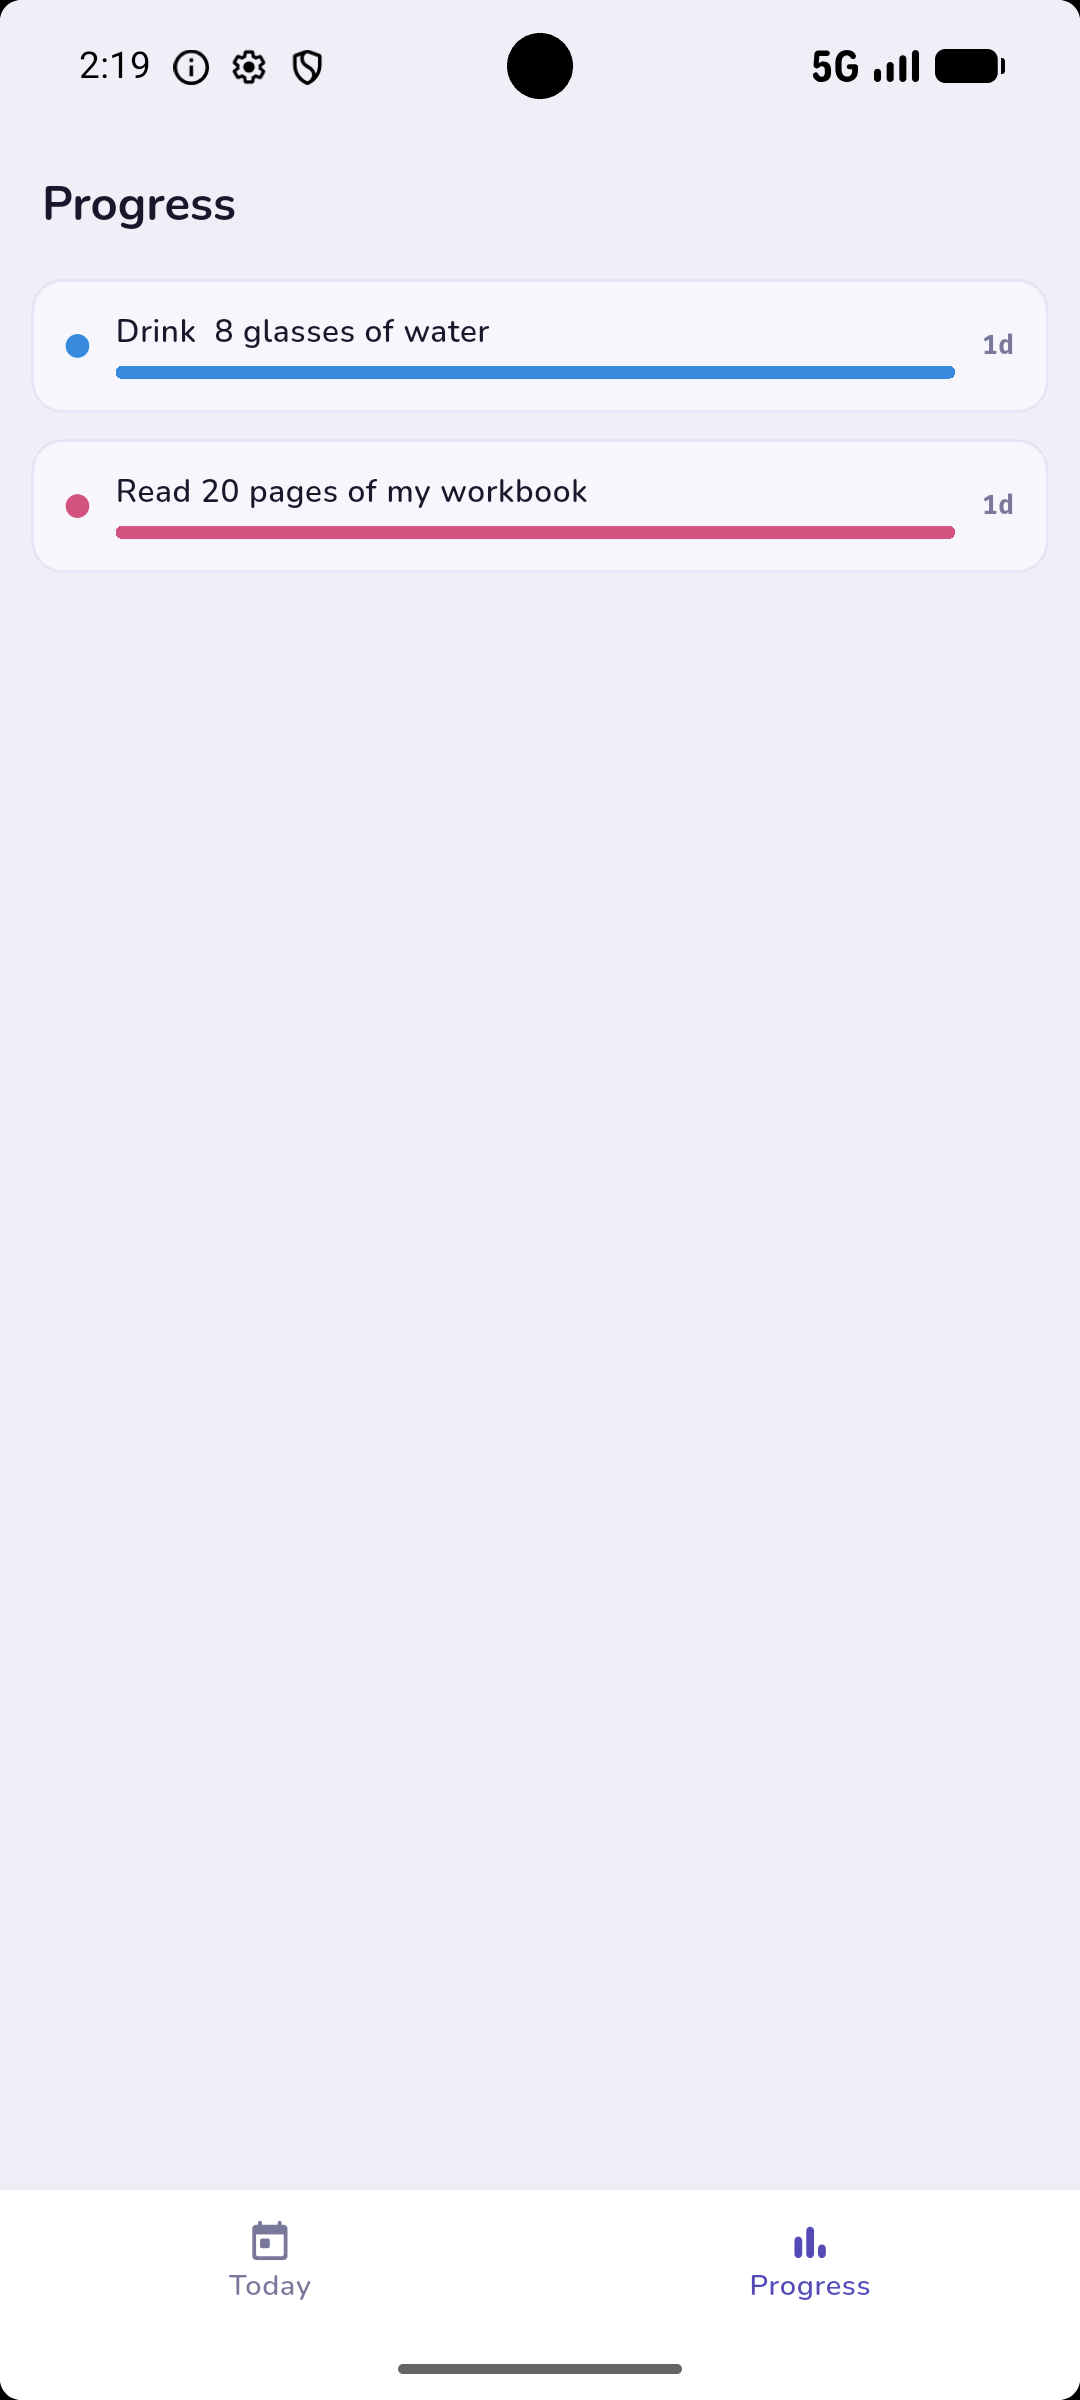
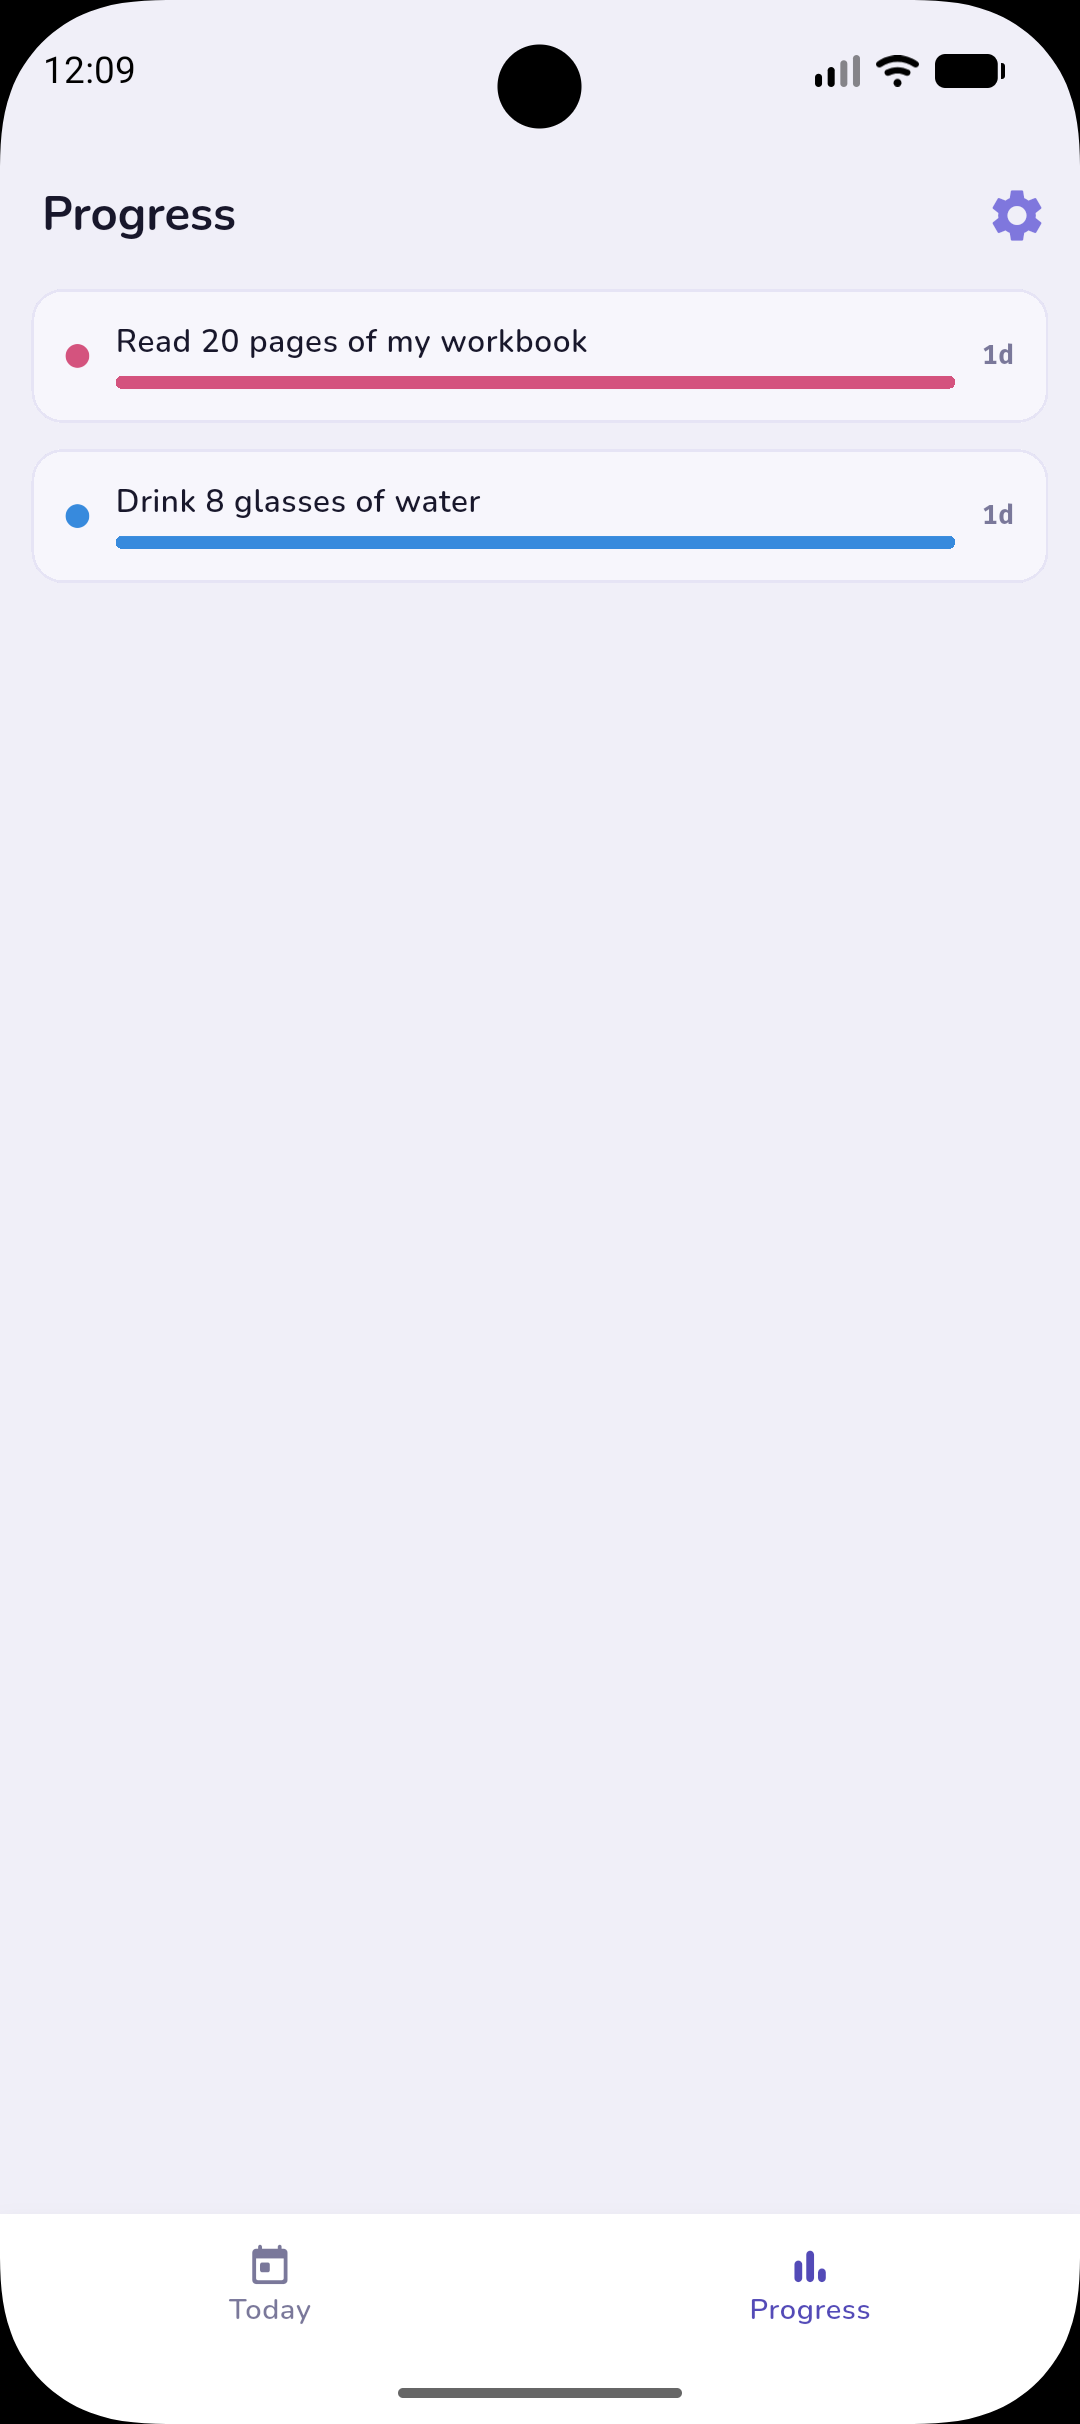
docs: add dark mode and settings screenshots, update README

diff --git a/README.md b/README.md
@@ -4,15 +4,24 @@ A lightweight, offline-first habit tracking app built with Flutter — running o
 
 ## Screenshots
 
-| | Splash | Today (Empty) | Today (Active) | Add Habit |
+**Light**
+
+| | Splash | Home (Empty) | Home (Active) | Add Habit |
 |---|:---:|:---:|:---:|:---:|
 | **iOS** | <img src="docs/ios_splash.png" width="160"/> | <img src="docs/ios_home_empty.png" width="160"/> | <img src="docs/ios_home_habits.png" width="160"/> | <img src="docs/ios_add_habit.png" width="160"/> |
-| **Android** | <img src="docs/android_splash.png" width="160"/> | <img src="docs/android_home.png" width="160"/> | <img src="docs/android_home_habits.png" width="160"/> | <img src="docs/android_add_habit.png" width="160"/> |
+| **Android** | <img src="docs/android_splash.png" width="160"/> | <img src="docs/android_home_empty.png" width="160"/> | <img src="docs/android_home_habits.png" width="160"/> | <img src="docs/android_add_habit.png" width="160"/> |
 
-| | Edit Habit | Progress | 
-|---|:---:|:---:|
-| **iOS** | <img src="docs/ios_edit_habit.png" width="160"/> | <img src="docs/ios_progress.png" width="160"/> | 
-| **Android** | <img src="docs/android_edit_habit.png" width="160"/> | <img src="docs/android_progress.png" width="160"/> | 
+| | Edit Habit | Progress | Settings |
+|---|:---:|:---:|:---:|
+| **iOS** | <img src="docs/ios_edit_habit.png" width="160"/> | <img src="docs/ios_progress.png" width="160"/> | <img src="docs/ios_settings.png" width="160"/> |
+| **Android** | <img src="docs/android_edit_habit.png" width="160"/> | <img src="docs/android_progress.png" width="160"/> | <img src="docs/android_settings.png" width="160"/> |
+
+**Dark**
+
+| | Home (Active) | Add Habit | Progress |
+|---|:---:|:---:|:---:|
+| **iOS** | <img src="docs/ios_home_habits_dark.png" width="160"/> | <img src="docs/ios_add_habit_dark.png" width="160"/> | <img src="docs/ios_progress_dark.png" width="160"/> |
+| **Android** | <img src="docs/android_home_habits_dark.png" width="160"/> | <img src="docs/android_add_habit_dark.png" width="160"/> | <img src="docs/android_progress_dark.png" width="160"/> |
 
 ## Features
 
@@ -70,15 +79,16 @@ habittrack/
 │   │   ├── models/         # Unit tests: Habit.computedStreak logic
 │   │   └── viewmodels/     # Unit tests: HabitViewModel streak logic (mockito)
 │   └── views/
+│       ├── add_edit_habit/ # Widget test: AddEditDeleteHabitBottomSheet
 │       └── home/
-│           └── widgets/    # Widget tests: HabitCard, TodayScreen, AddEditDeleteHabitBottomSheet
+│           └── widgets/    # Widget tests: HabitCard, ProgressCard, TodayScreen
 ├── README.md
 └── pubspec.yaml
 ```
 
 ## Roadmap
 
-- [ ] Widget tests — flutter_test, mockito (in progress)
+- [ ] Widget tests: ProgressScreen, SettingsScreen remaining
 - [ ] Daily reminders / local notifications
 - [ ] Riverpod branch — alternate state management implementation for comparison
 
